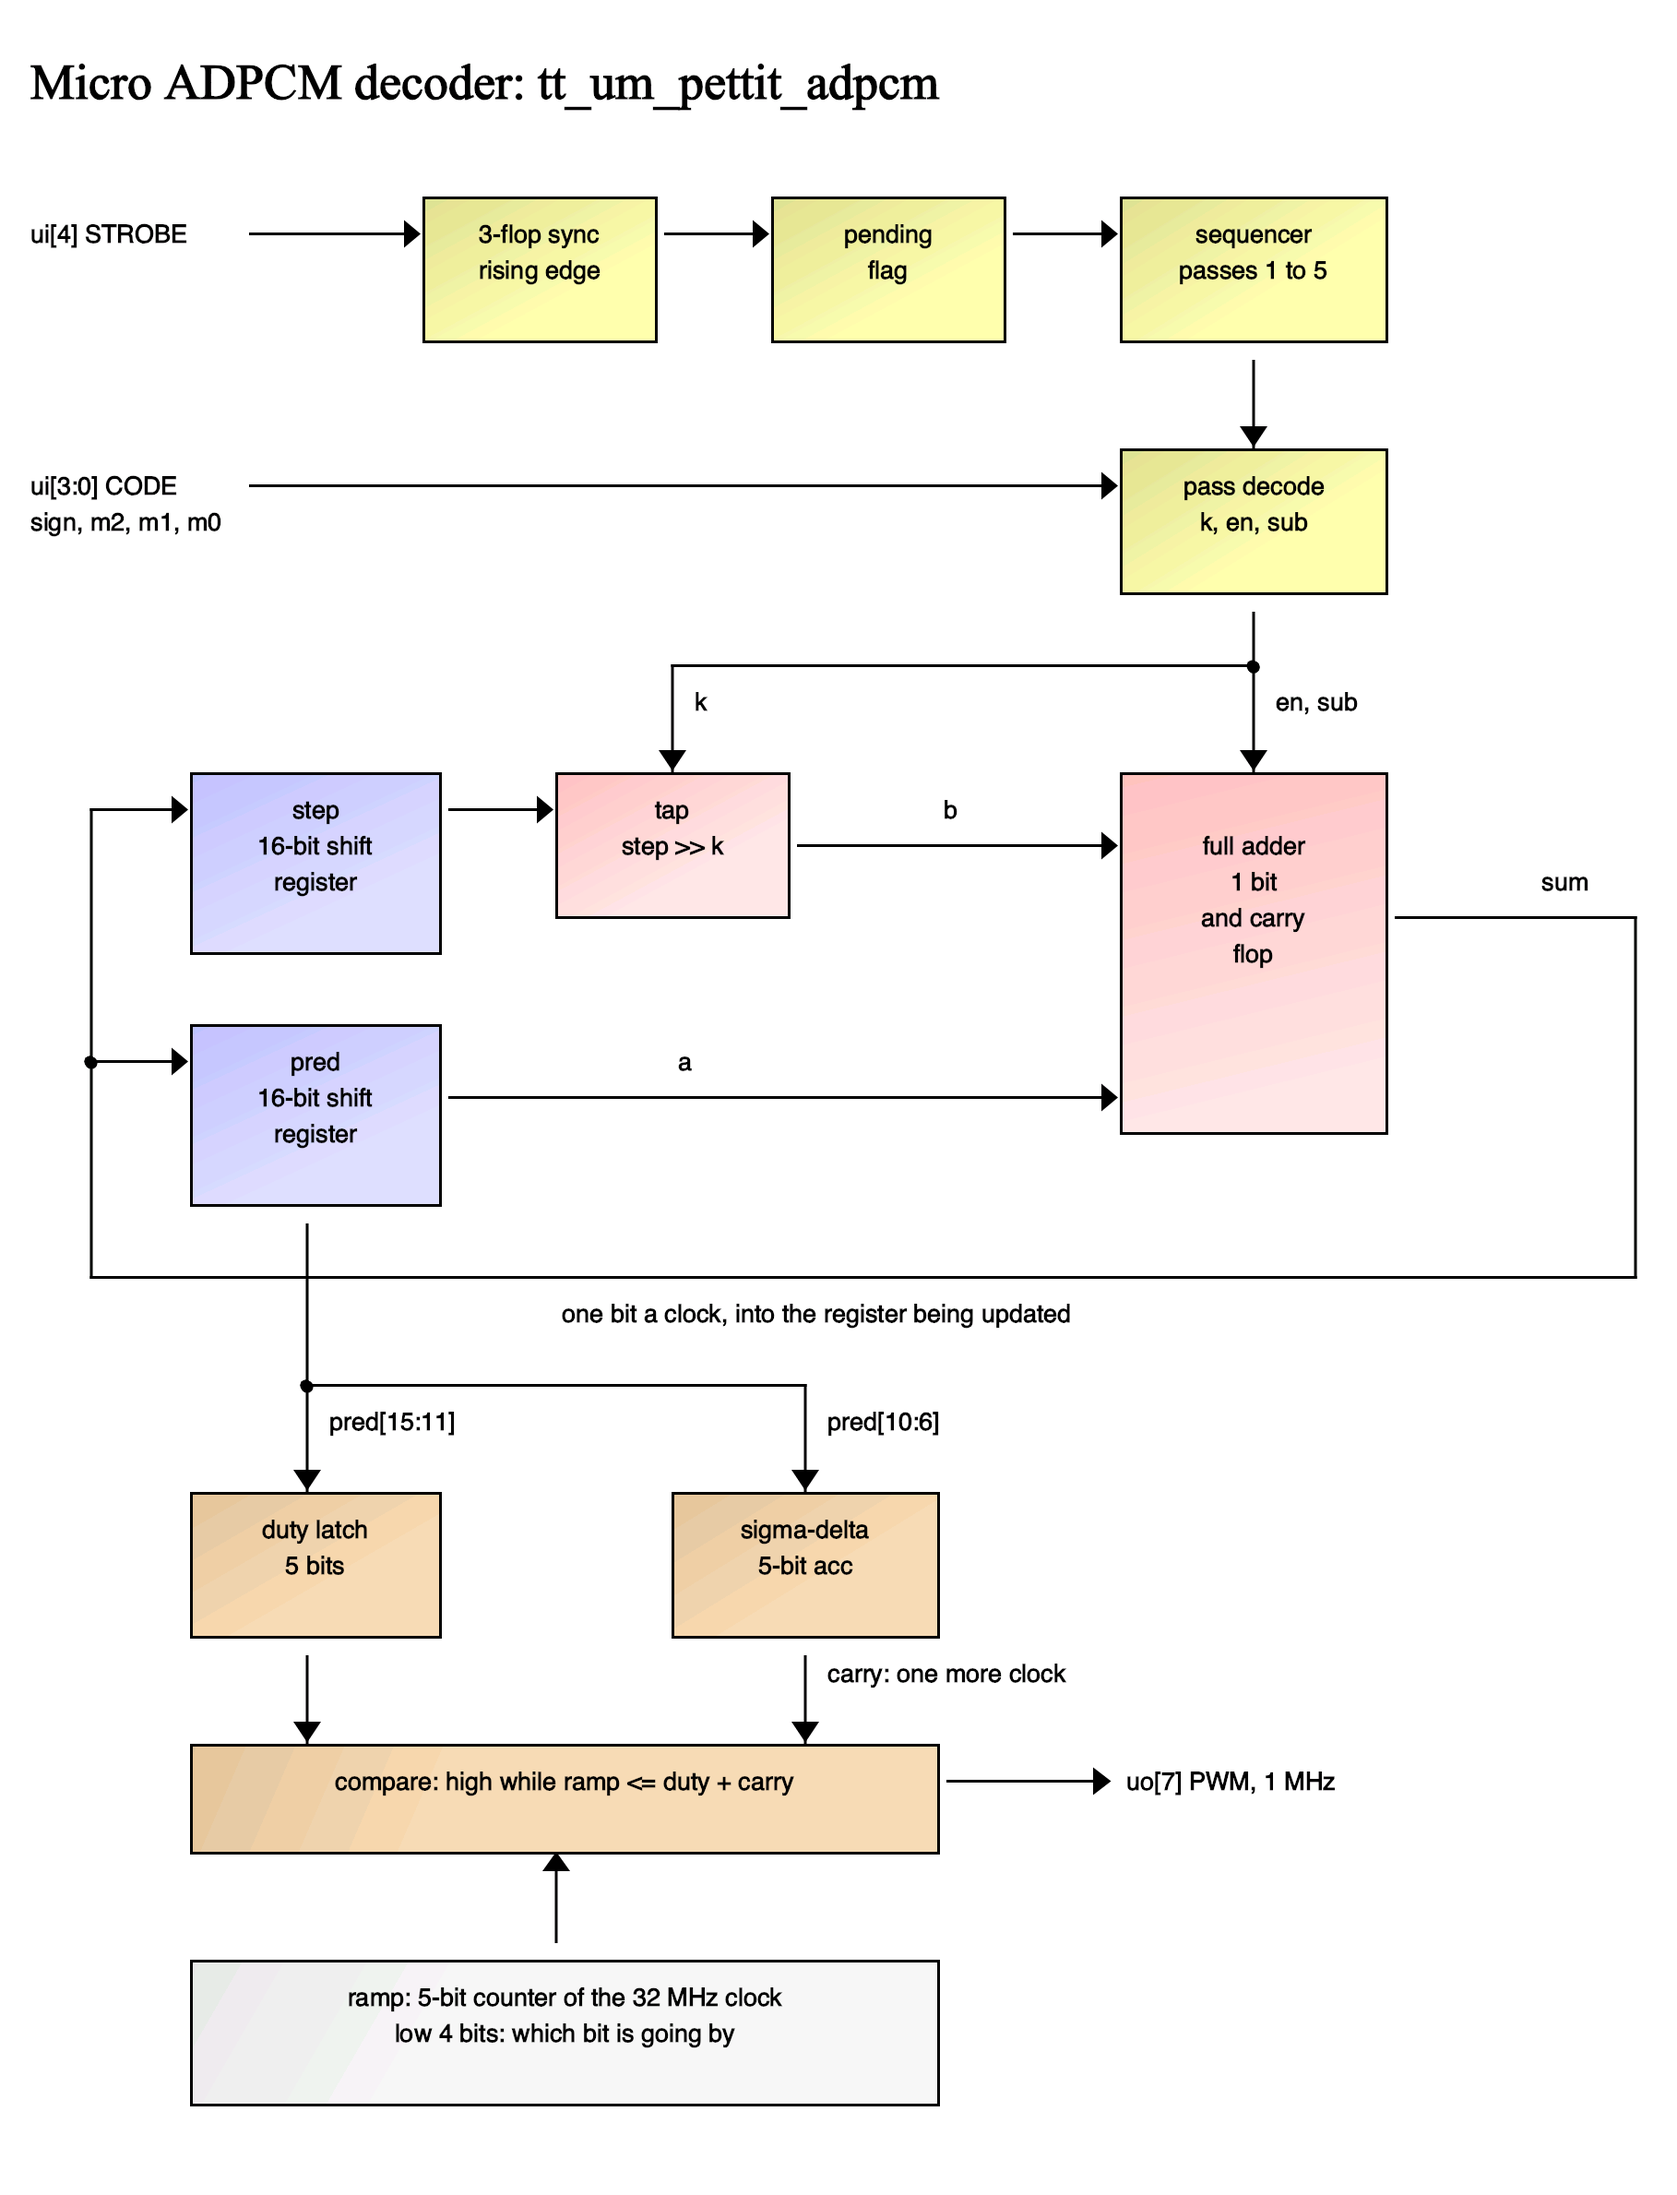
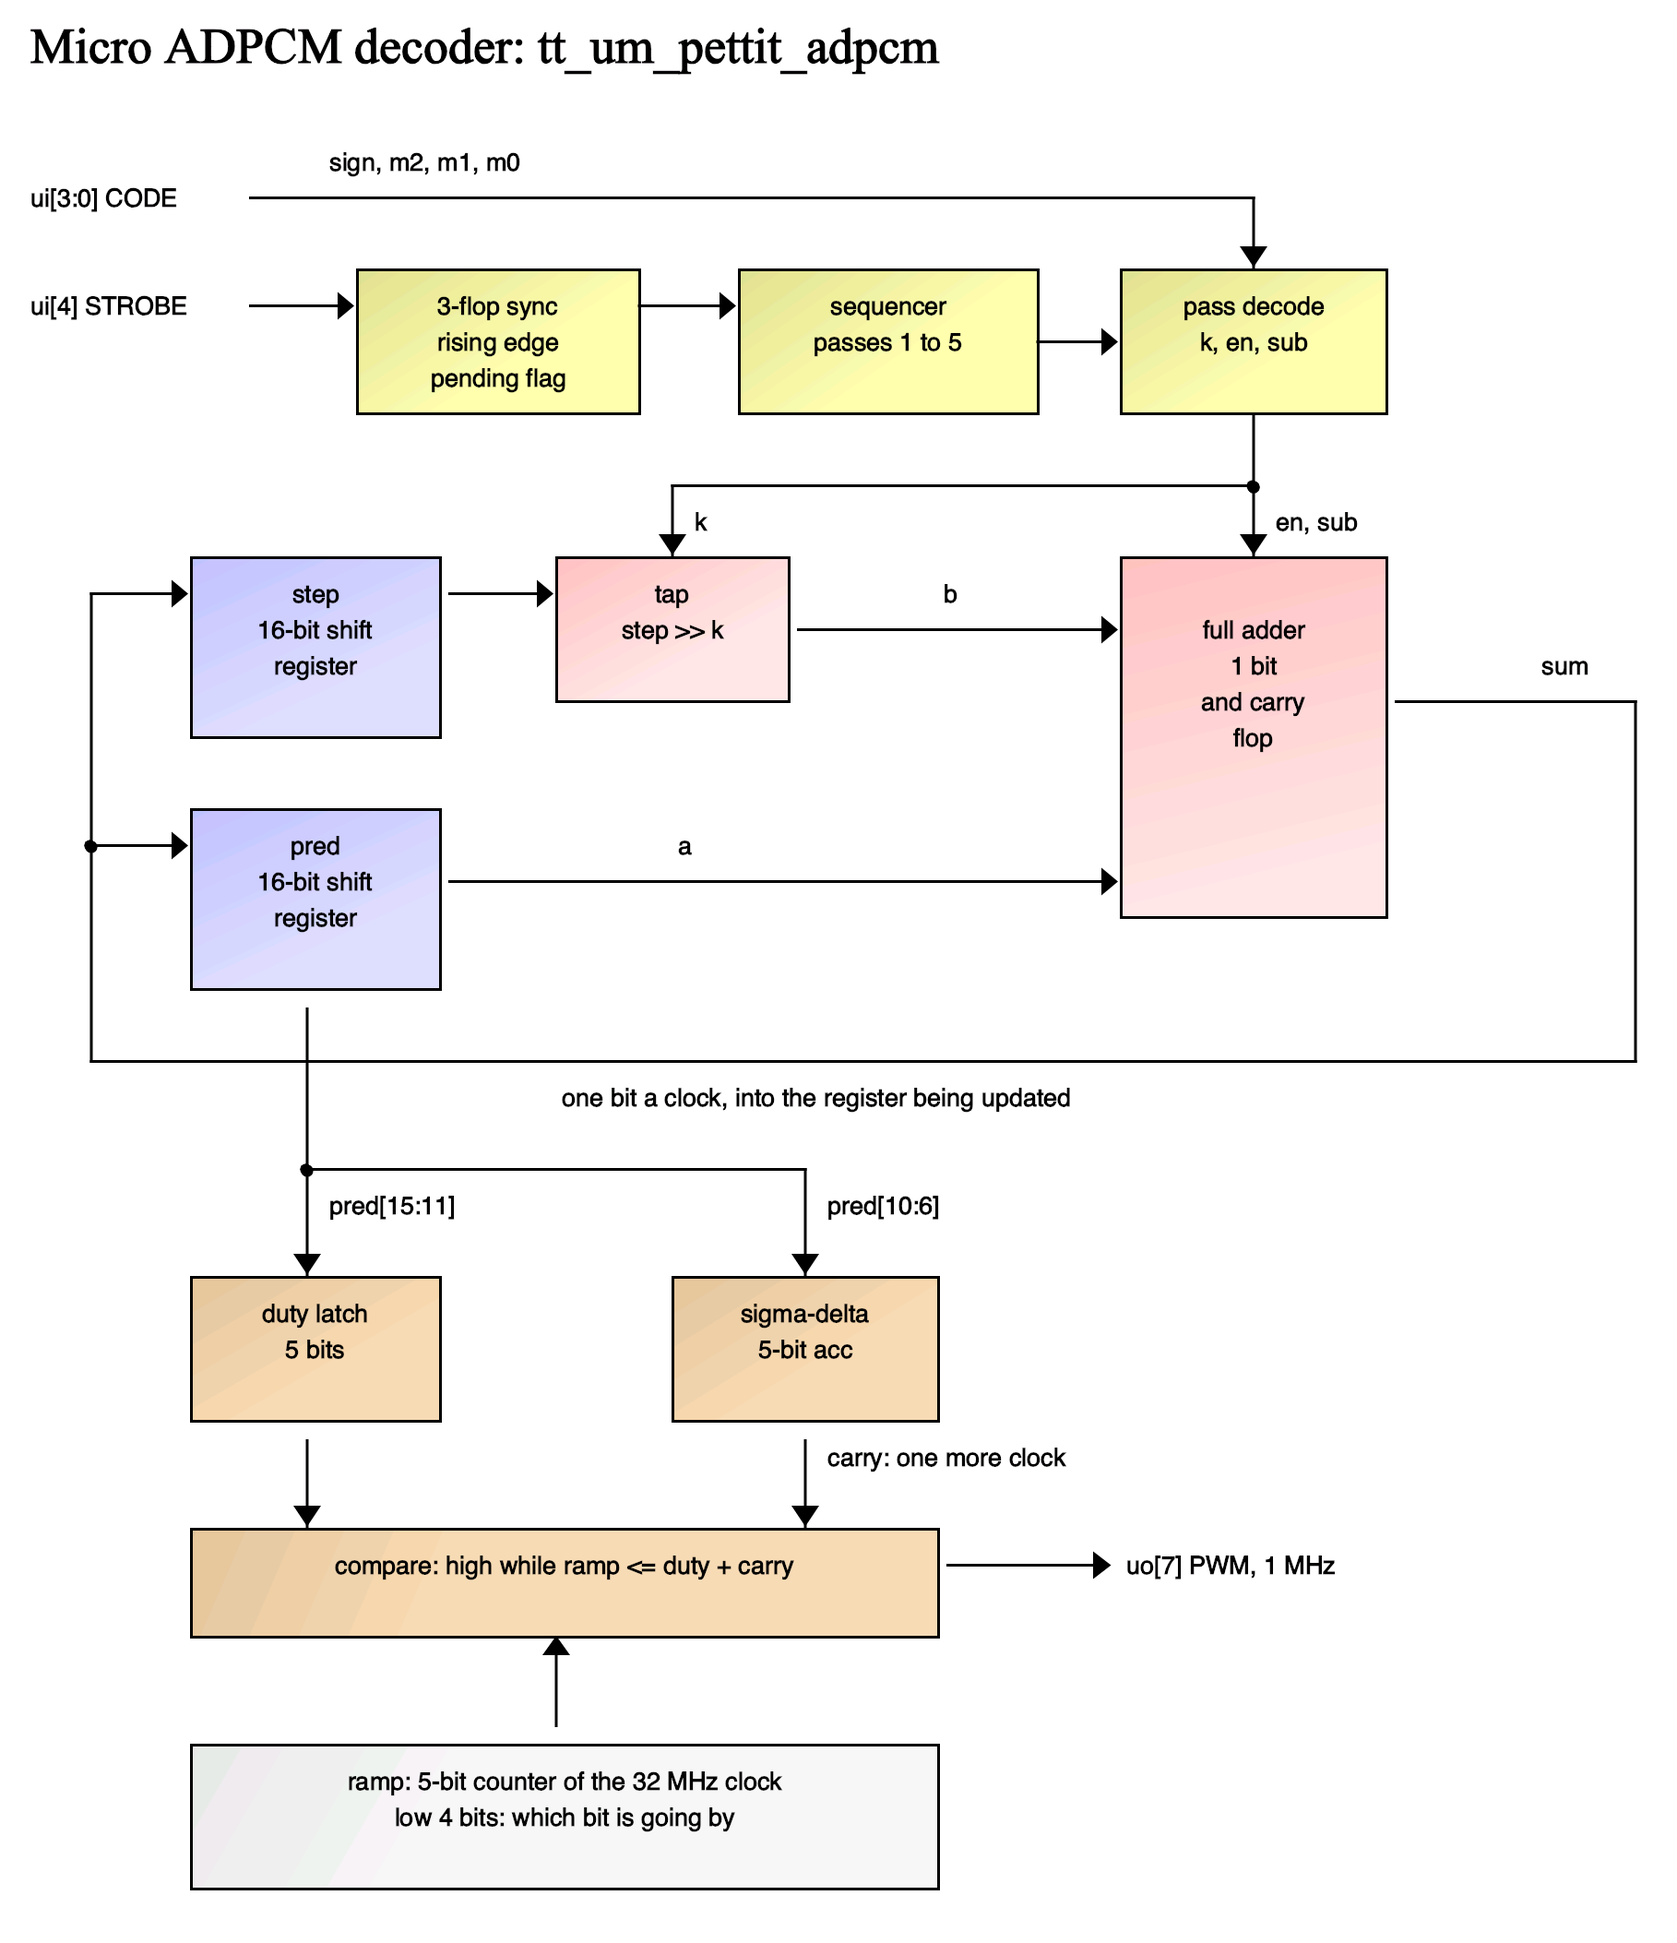
Web player: no reset between songs, so no pop
The chip was left in reset after connect and reset again before every
song; in reset its output is 0, so each song began with a step from 0
to mid-scale.  The chip is now taken out of reset once, at connect.
Before and after each play the board brings the decoder back to its
reset state with codes: the step is let fall to 15, the predictor is
walked to the point where uo[4:0] changes from 16 to 15 (0x7FFF), and
15 steps down plus one magnitude 4 up end at 0x8000 with step 16.

diff --git a/web/board.js b/web/board.js
@@ -51,6 +51,68 @@ def _stream():
     out(pins, 4).side(0)[7]
     nop().side(1)[7]
 
+# the same, one code per word: for home()
+@rp2.asm_pio(out_init=(rp2.PIO.OUT_LOW,) * 4, sideset_init=rp2.PIO.OUT_LOW,
+             out_shiftdir=rp2.PIO.SHIFT_RIGHT, autopull=True, pull_thresh=4, fifo_join=rp2.PIO.JOIN_TX)
+def _one():
+    out(pins, 4).side(0)[7]
+    nop().side(1)[7]
+
+HOMED = False
+
+def home():
+    # Bring the decoder to its reset state (predictor 0x8000, step 16) with
+    # codes, not with reset: reset drives the output to 0 and back, which is a
+    # pop, and this is a ramp.  The chip shows the top 5 bits of its predictor
+    # on uo[4:0].  Small codes let the step fall to 15, where a code moves the
+    # predictor by exactly 1 (magnitude 0) or 11 (magnitude 3); the predictor
+    # is walked to where uo[4:0] changes from 16 to 15, which is 0x7FFF; 15
+    # more down and one magnitude 4 up (+16, step 15 -> 16) end at 0x8000, 16.
+    global HOMED
+    if HOMED:
+        return
+    uo = [Pin(getattr(tt.pins, "uo_out%d" % i).gpio_num, Pin.IN) for i in range(5)]
+    sm = rp2.StateMachine(0, _one, freq=16 * 62500, out_base=Pin(CODE), sideset_base=Pin(STROBE))
+    def send(code, n=1):
+        for _ in range(n):
+            sm.put(code)
+    def duty():
+        while sm.tx_fifo():
+            pass
+        time.sleep_us(150)
+        return uo[0]() | uo[1]() << 1 | uo[2]() << 2 | uo[3]() << 3 | uo[4]() << 4
+    sm.active(1)
+    try:
+        a = 8 if duty() >= 16 else 0         # the first, largest move is toward the middle
+        for _ in range(90):
+            send(a); send(a ^ 8)
+        ok = False
+        for _ in range(60):
+            d = duty()
+            if d == 15:
+                ok = True
+                break
+            if d >= 16:
+                send(0xB, 150 if d == 16 else (d - 16) * 186)
+            else:
+                send(0x3, (15 - d) * 186)
+        n = 0
+        while ok and duty() == 15 and n < 600:
+            send(0x3, 4); n += 1
+        n = 0
+        while ok and duty() == 16 and n < 100:
+            send(0x8); n += 1
+        ok = ok and duty() == 15
+        if ok:
+            send(0x8, 15)
+            send(0x4)
+            duty()
+    finally:
+        sm.active(0)
+    if not ok:                               # no answer on uo: the hard way
+        tt.reset_project(True); time.sleep_ms(1); tt.reset_project(False)
+    HOMED = True
+
 def _recv(mv, n):
     k = 0
     while k < n:
@@ -116,6 +178,11 @@ def start():
     getattr(tt.shuttle, PROJECT).enable()
     tt.ui_in.value = 0
     tt.clock_project_PWM(%CLOCK%)
+    # out of reset from here on: in reset the output is 0, and the step to
+    # mid-scale is heard once, now, and not before every song
+    global HOMED
+    tt.reset_project(True); time.sleep_ms(1); tt.reset_project(False)
+    HOMED = True
     if %PROBE%:
         try:
             storage_init()
@@ -124,7 +191,6 @@ def start():
     print("J " + json.dumps({"code": CODE, "strobe": STROBE, "uio": U, "block": BLOCK, "stores": STORES}))
 
 def _engine(rate, loader):
-    sm = rp2.StateMachine(0, _stream, freq=16 * rate, out_base=Pin(CODE), sideset_base=Pin(STROBE))
     dma = [rp2.DMA(), rp2.DMA()]
     def ctrl(i, chain):
         return dma[i].pack_ctrl(size=0, inc_read=True, inc_write=False, treq_sel=0,
@@ -134,7 +200,10 @@ def _engine(rate, loader):
         if n:
             dma[i].config(read=bufs[i], write=PIO0_TXF0, count=n, ctrl=ctrl(i, True), trigger=False)
         return n
-    tt.reset_project(True); time.sleep_ms(2); tt.reset_project(False)
+    global HOMED
+    home()
+    sm = rp2.StateMachine(0, _stream, freq=16 * rate, out_base=Pin(CODE), sideset_base=Pin(STROBE))
+    HOMED = False
     try:
         if arm(0):
             more = arm(1)
@@ -158,6 +227,10 @@ def _engine(rate, loader):
     finally:
         sm.active(0)
         dma[0].close(); dma[1].close()
+        try:
+            home()                       # leave the output at mid-scale, ready for the next one
+        except Exception:
+            pass
 
 def play(rate):
     micropython.kbd_intr(-1)            # the stream is binary: 0x03 is data
